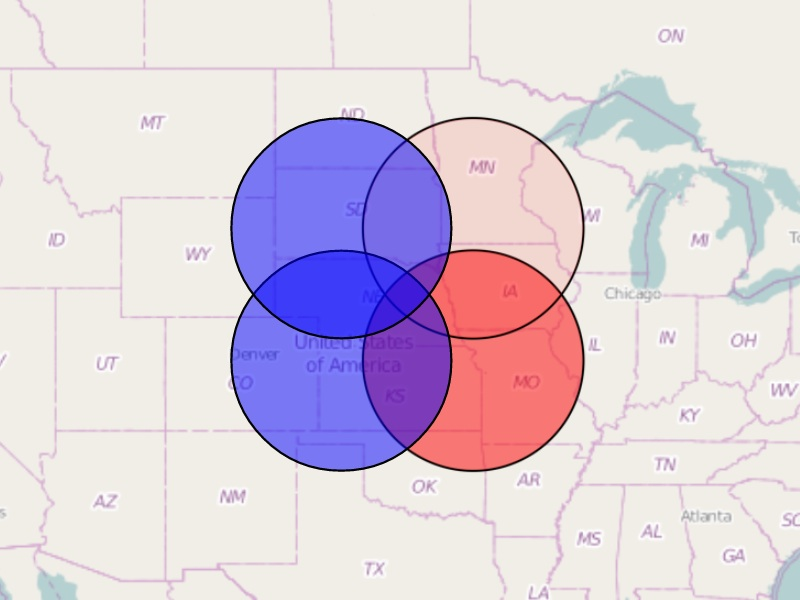
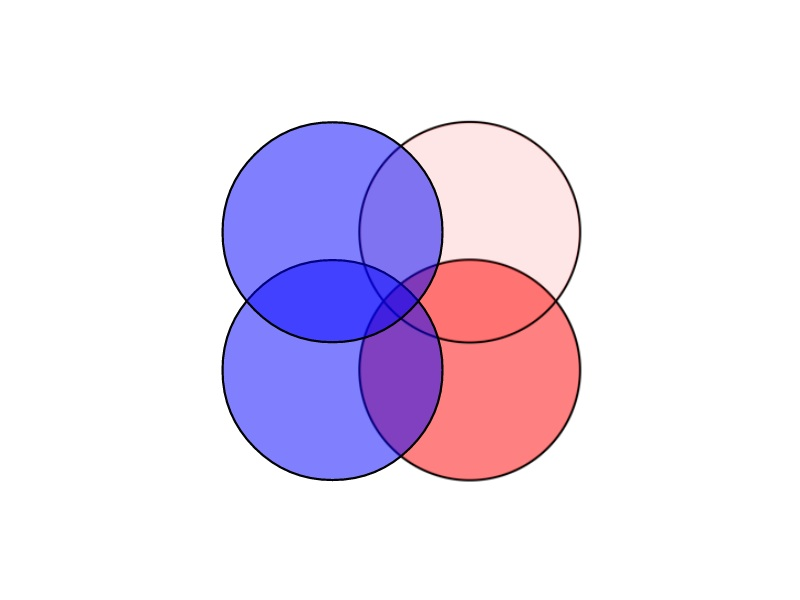
Use white background for point example

diff --git a/examples/points/main.js b/examples/points/main.js
@@ -51,7 +51,16 @@ $(function () {
     },
     zoom: 2
   });
-  map.createLayer('osm');
+
+  // Create an osm layer with custom tile url for a white background.
+  map.createLayer(
+    'osm',
+    {
+      tileUrl: function () {
+        return 'white.jpg';
+      }
+    }
+  );
 
   // Create a gl feature layer
   var vglLayer = map.createLayer(
